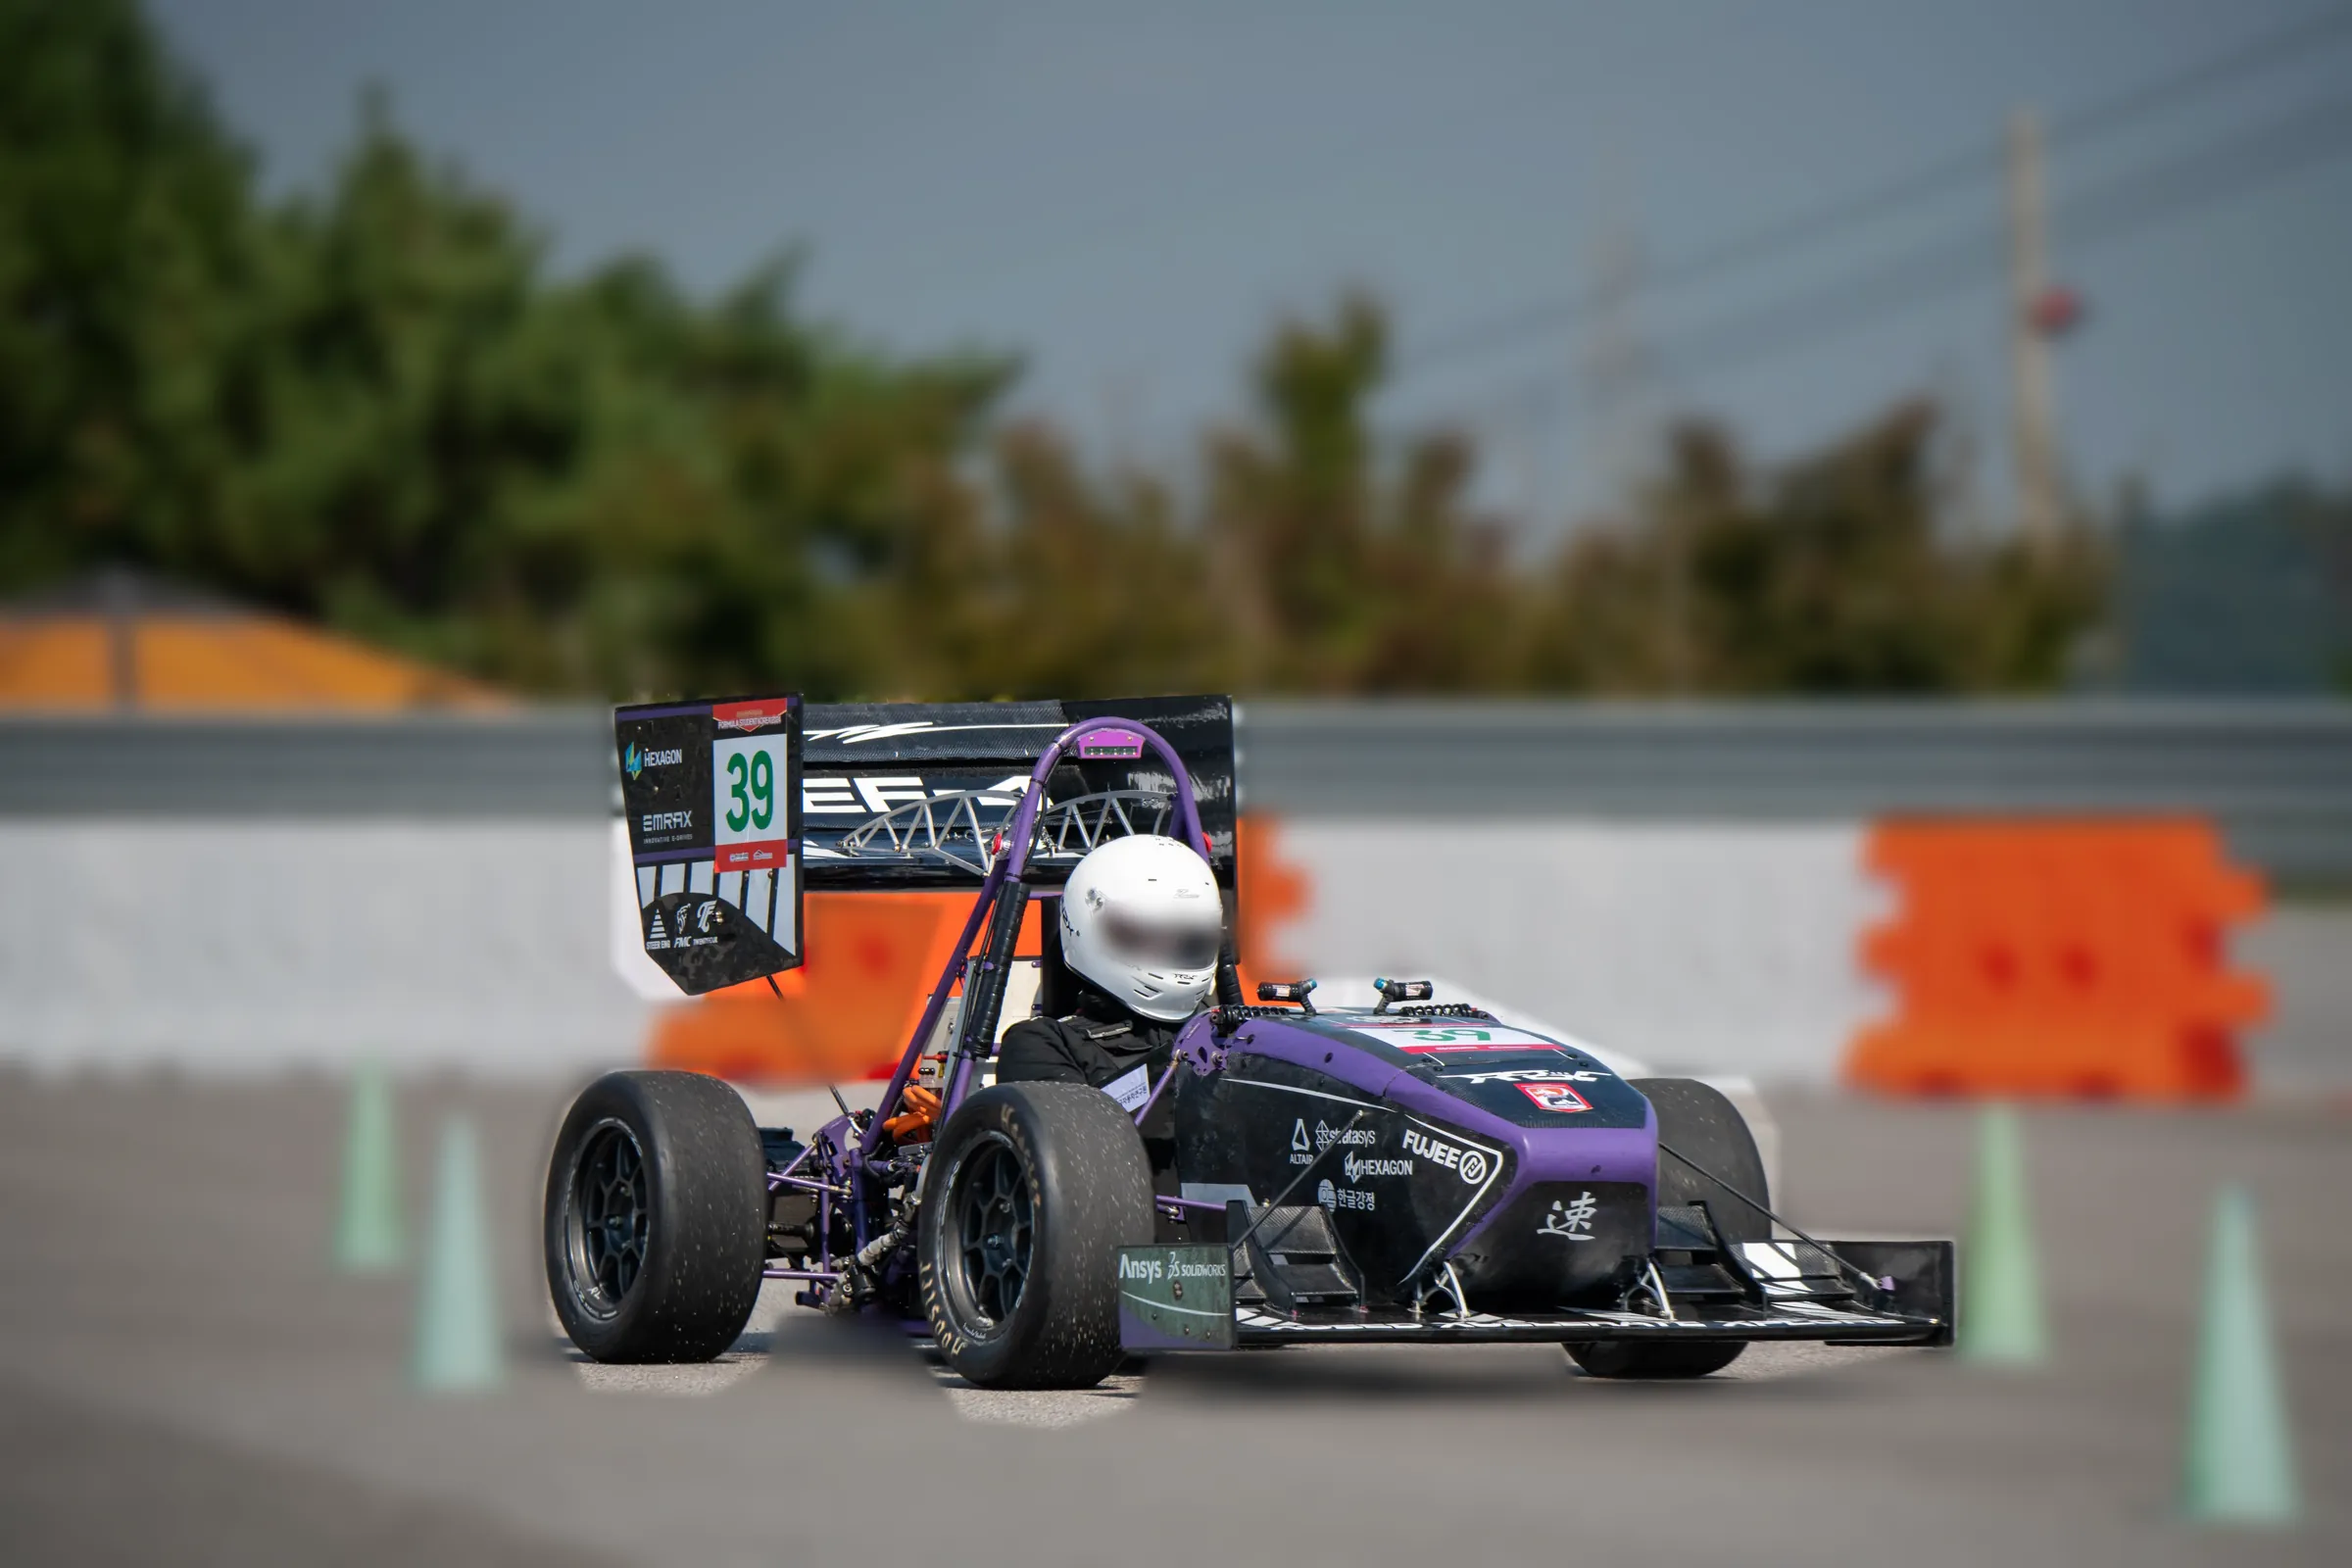
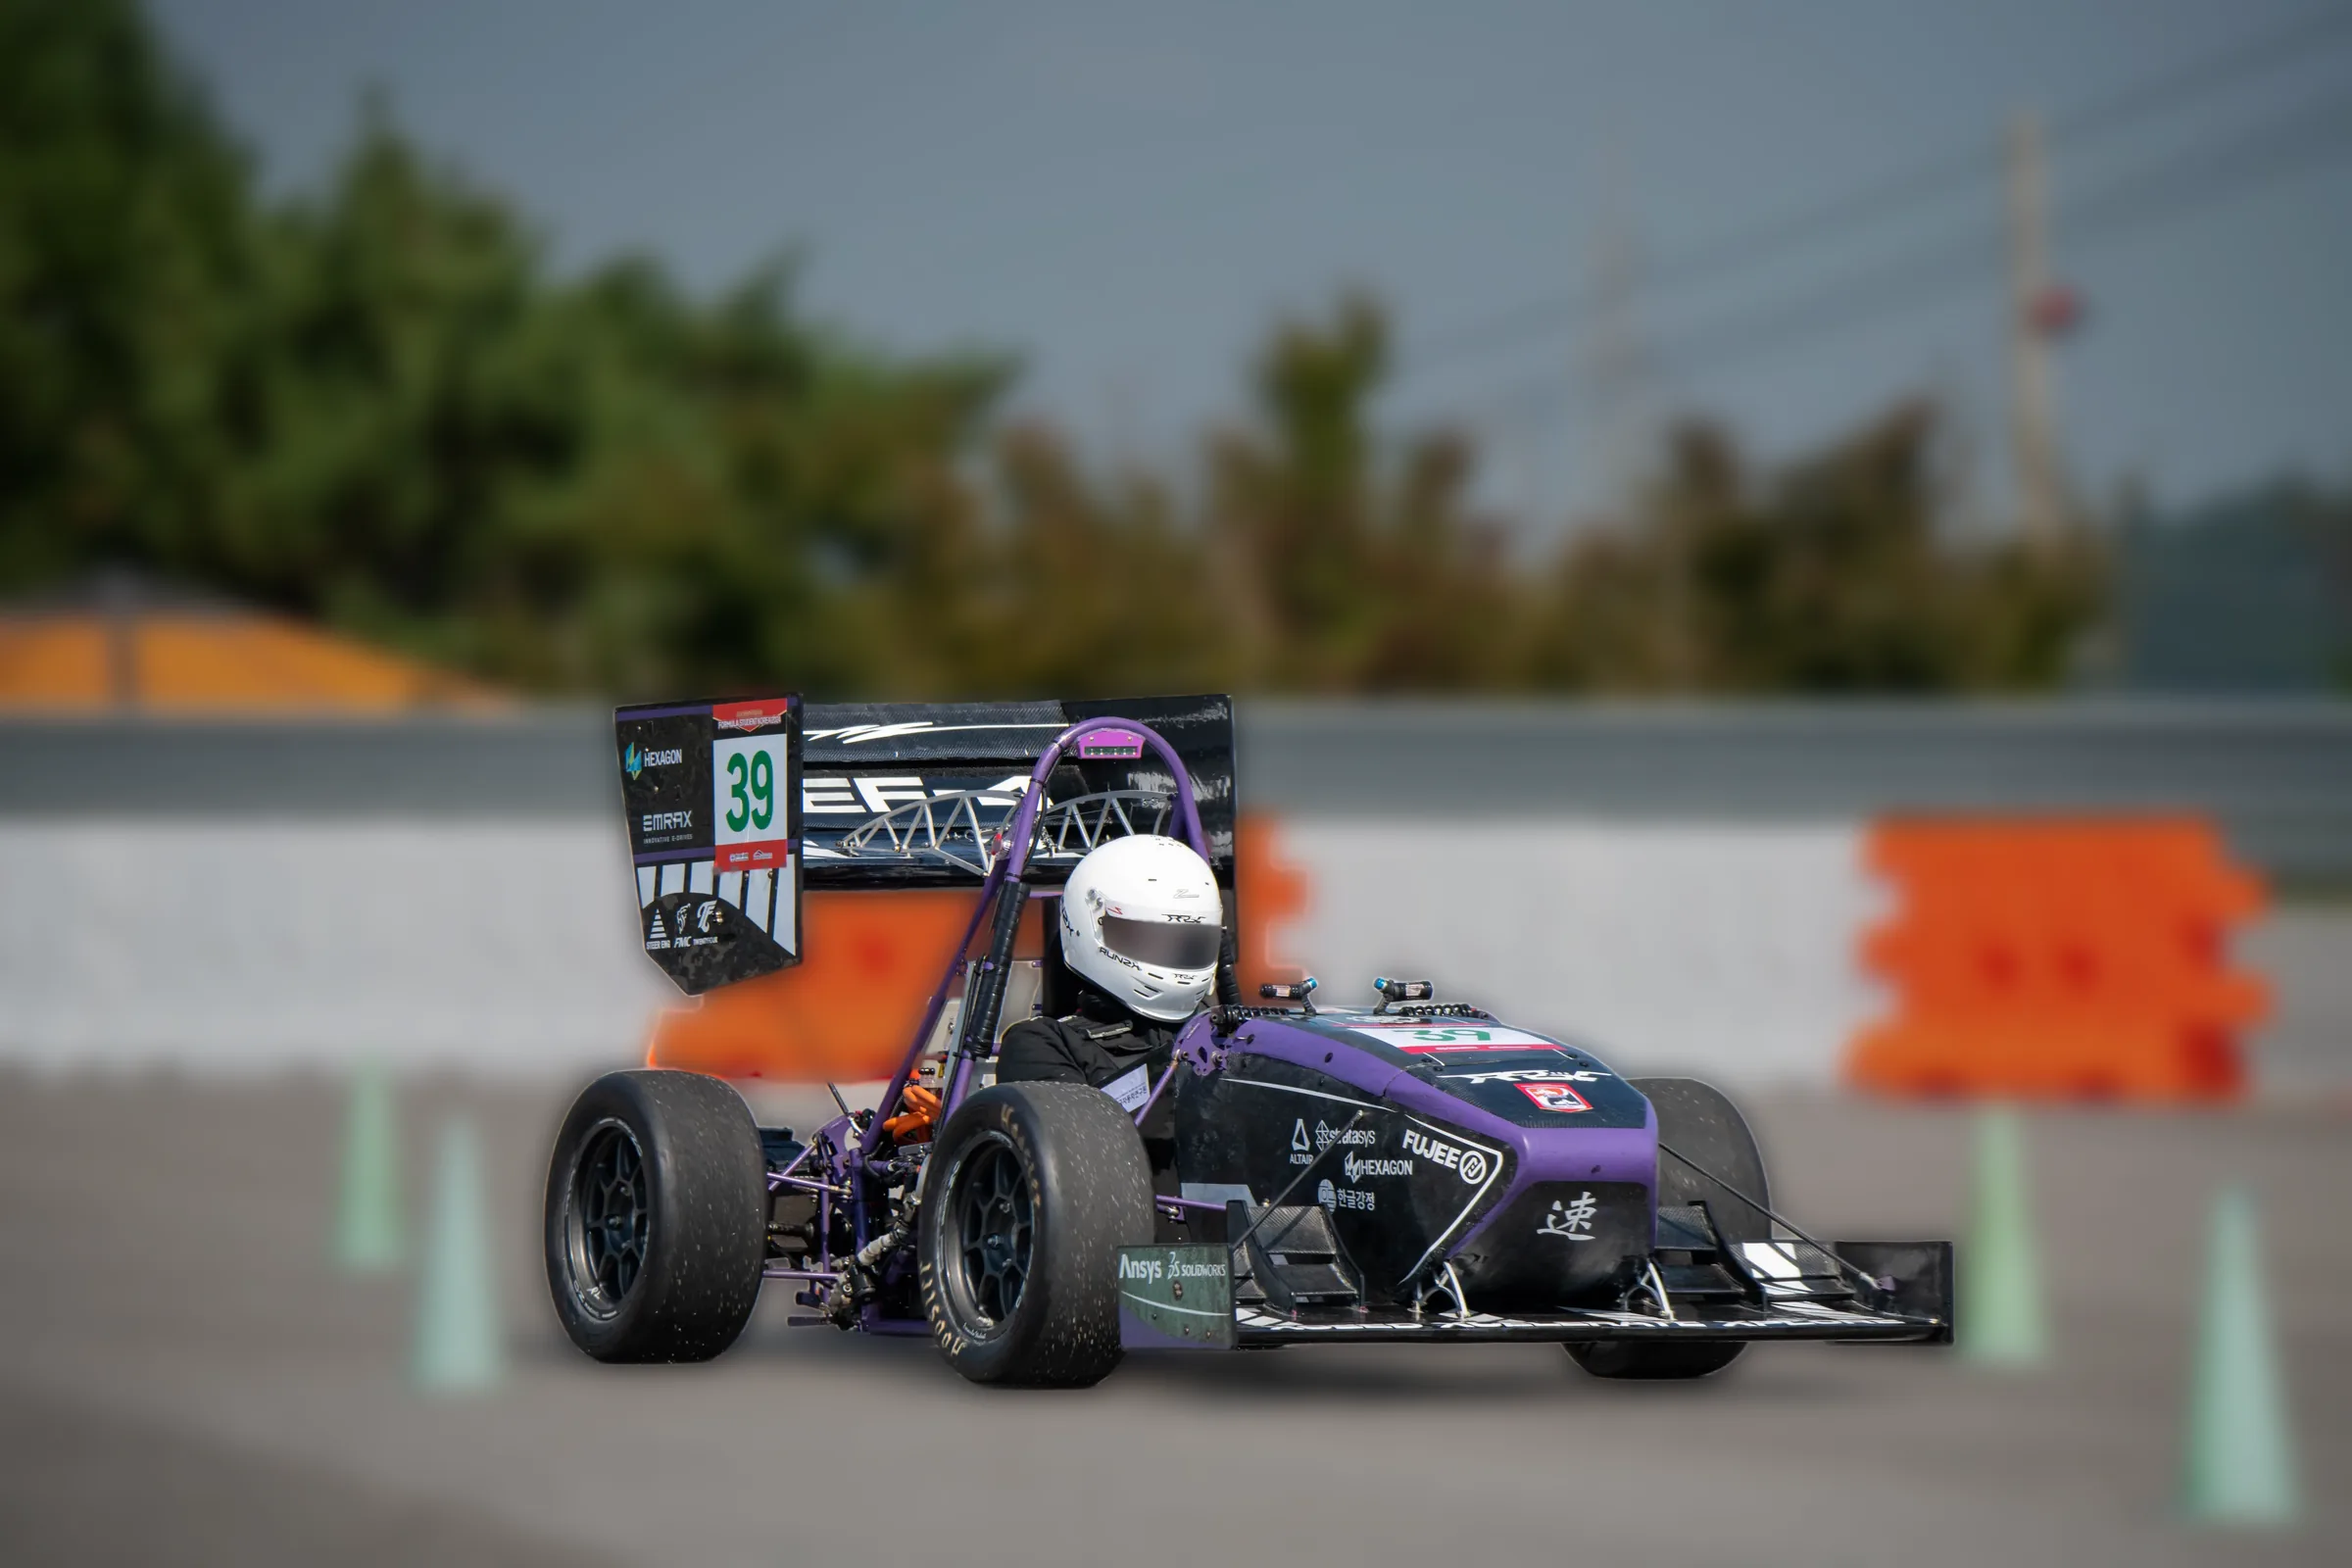
히어로 차 누끼를 배경 제거 모델(rembg isnet)로 다시 따고 바이저를 모양대로 흐림

diff --git a/index.html b/index.html
@@ -8,8 +8,8 @@
 <link rel="icon" type="image/png" href="img/favicon.png">
 <link rel="preconnect" href="https://fonts.googleapis.com">
 <link rel="stylesheet" href="https://fonts.googleapis.com/css2?family=Barlow+Condensed:wght@500;600;700&family=Unbounded:wght@700;800&family=IBM+Plex+Mono:wght@400;500&family=IBM+Plex+Sans+KR:wght@400;500;600;700&display=swap">
-<link rel="stylesheet" href="css/base.css?v=202611220237">
-<link rel="stylesheet" href="css/style.css?v=202611220237">
+<link rel="stylesheet" href="css/base.css?v=202611220246">
+<link rel="stylesheet" href="css/style.css?v=202611220246">
 </head>
 <body>
 <a class="skip" href="#main">본문으로 건너뛰기</a>
@@ -92,67 +92,67 @@
 </main>
 <div id="verline"><span class="vl-main"><span class="vl-copy">© 2026 <b>Run2X 19 한지윤</b></span><span class="vl-sep">·</span><span class="vl-by">Designed &amp; built by <b>한지윤</b></span><span class="vl-sep">·</span><a class="vl-lic" href="https://creativecommons.org/licenses/by-nc/4.0/deed.ko" target="_blank" rel="noopener">CC BY-NC 4.0</a></span><span class="vl-sub">최종 갱신 2026-11-21 · <span class="vl-ver">v<b>2.2.0</b></span></span><span class="vl-links"><button type="button" class="authbtn vl-share">링크 복사</button><button type="button" class="authbtn info-open">사이트 정보</button></span><span class="envnote2">PC 크롬 브라우저 전용입니다(화면 너비 1440 px 이상, 권장 1920×1080). 휴대폰에서는 안내 화면만 보입니다.</span></div>
 
-<script src="js/core/boot.js?v=202611220237"></script>
-<script src="js/core/mathjax-config.js?v=202611220237"></script>
-<script defer onerror="window.__mjFailed=1" src="vendor/mathjax/tex-svg-full.js?v=202611220237"></script>
-<script src="js/config.js?v=202611220237"></script>
-<script src="js/store/backend.js?v=202611220237"></script>
-<script src="js/store/dash-keys.js?v=202611220237"></script>
-<script src="js/core/helpers.js?v=202611220237"></script>
-<script src="js/figures/svg-figures.js?v=202611220237"></script>
-<script src="js/figures/dash-figs.js?v=202611220237"></script>
-<script src="js/figures/fig-anim.js?v=202611220237"></script>
-<script src="js/figures/view3d.js?v=202611220237"></script>
-<script src="js/figures/kp3d.js?v=202611220237"></script>
-<script src="js/figures/comp-figs.js?v=202611220237"></script>
-<script src="js/data/cards.js?v=202611220237"></script>
-<script src="js/data/items.js?v=202611220237"></script>
-<script src="js/data/background.js?v=202611220237"></script>
-<script src="js/data/components.js?v=202611220237"></script>
-<script src="js/data/f1tech.js?v=202611220237"></script>
-<script src="js/data/refs.js?v=202611220237"></script>
-<script src="js/app/render.js?v=202611220237"></script>
-<script src="js/data/act.js?v=202611220237"></script>
-<script src="js/app/step-html.js?v=202611220237"></script>
-<script src="js/data/parts.js?v=202611220237"></script>
-<script src="js/app/views.js?v=202611220237"></script>
-<script src="js/figures/modes-anim.js?v=202611220237"></script>
-<script src="js/app/status-shared.js?v=202611220237"></script>
-<script src="js/app/tabs-nav.js?v=202611220237"></script>
-<script src="js/app/learn.js?v=202611220237"></script>
-<script src="js/app/ui-extra.js?v=202611220237"></script>
-<script src="js/app/admin.js?v=202611220237"></script>
-<script src="js/app/graph-extra.js?v=202611220237"></script>
-<script src="js/app/qa-links.js?v=202611220237"></script>
-<script src="js/app/season.js?v=202611220237"></script>
-<script src="js/app/draft.js?v=202611220237"></script>
-<script src="js/app/conn-lock.js?v=202611220237"></script>
-<script src="js/app/team.js?v=202611220237"></script>
-<script src="js/app/info.js?v=202611220237"></script>
-<script src="js/app/clnotice.js?v=202611220237"></script>
-<script src="js/app/start.js?v=202611220237"></script>
-<script src="js/app/tools-tab.js?v=202611220237"></script>
-<script src="js/app/workbench.js?v=202611220237"></script>
-<script src="js/data/fsk2026-course.js?v=202611220237"></script>
-<script src="js/data/emrax228.js?v=202611220237"></script>
-<script src="js/app/tool1-mass.js?v=202611220237"></script>
-<script src="js/app/tool2-lap.js?v=202611220237"></script>
-<script src="js/app/toolG-goal.js?v=202611220237"></script>
-<script src="js/app/tool4-bat.js?v=202611220237"></script>
-<script src="js/app/tool9-cool.js?v=202611220237"></script>
-<script src="js/app/toolT-tire.js?v=202611220237"></script>
-<script src="js/app/tool5-geo.js?v=202611220237"></script>
-<script src="js/app/tool6-steer.js?v=202611220237"></script>
-<script src="js/app/tool7-spring.js?v=202611220237"></script>
-<script src="js/app/tool3-brake.js?v=202611220237"></script>
-<script src="js/app/tool8-load.js?v=202611220237"></script>
-<script src="js/app/car-shape.js?v=202611220237"></script>
-<script src="js/app/teamtab.js?v=202611220237"></script>
-<script src="js/app/records.js?v=202611220237"></script>
-<script src="js/app/layout.js?v=202611220237"></script>
-<script src="js/app/tour.js?v=202611220237"></script>
-<script src="js/app/item-page.js?v=202611220237"></script>
-<script src="js/app/init.js?v=202611220237"></script>
-<script src="js/app/nav2.js?v=202611220237"></script>
+<script src="js/core/boot.js?v=202611220246"></script>
+<script src="js/core/mathjax-config.js?v=202611220246"></script>
+<script defer onerror="window.__mjFailed=1" src="vendor/mathjax/tex-svg-full.js?v=202611220246"></script>
+<script src="js/config.js?v=202611220246"></script>
+<script src="js/store/backend.js?v=202611220246"></script>
+<script src="js/store/dash-keys.js?v=202611220246"></script>
+<script src="js/core/helpers.js?v=202611220246"></script>
+<script src="js/figures/svg-figures.js?v=202611220246"></script>
+<script src="js/figures/dash-figs.js?v=202611220246"></script>
+<script src="js/figures/fig-anim.js?v=202611220246"></script>
+<script src="js/figures/view3d.js?v=202611220246"></script>
+<script src="js/figures/kp3d.js?v=202611220246"></script>
+<script src="js/figures/comp-figs.js?v=202611220246"></script>
+<script src="js/data/cards.js?v=202611220246"></script>
+<script src="js/data/items.js?v=202611220246"></script>
+<script src="js/data/background.js?v=202611220246"></script>
+<script src="js/data/components.js?v=202611220246"></script>
+<script src="js/data/f1tech.js?v=202611220246"></script>
+<script src="js/data/refs.js?v=202611220246"></script>
+<script src="js/app/render.js?v=202611220246"></script>
+<script src="js/data/act.js?v=202611220246"></script>
+<script src="js/app/step-html.js?v=202611220246"></script>
+<script src="js/data/parts.js?v=202611220246"></script>
+<script src="js/app/views.js?v=202611220246"></script>
+<script src="js/figures/modes-anim.js?v=202611220246"></script>
+<script src="js/app/status-shared.js?v=202611220246"></script>
+<script src="js/app/tabs-nav.js?v=202611220246"></script>
+<script src="js/app/learn.js?v=202611220246"></script>
+<script src="js/app/ui-extra.js?v=202611220246"></script>
+<script src="js/app/admin.js?v=202611220246"></script>
+<script src="js/app/graph-extra.js?v=202611220246"></script>
+<script src="js/app/qa-links.js?v=202611220246"></script>
+<script src="js/app/season.js?v=202611220246"></script>
+<script src="js/app/draft.js?v=202611220246"></script>
+<script src="js/app/conn-lock.js?v=202611220246"></script>
+<script src="js/app/team.js?v=202611220246"></script>
+<script src="js/app/info.js?v=202611220246"></script>
+<script src="js/app/clnotice.js?v=202611220246"></script>
+<script src="js/app/start.js?v=202611220246"></script>
+<script src="js/app/tools-tab.js?v=202611220246"></script>
+<script src="js/app/workbench.js?v=202611220246"></script>
+<script src="js/data/fsk2026-course.js?v=202611220246"></script>
+<script src="js/data/emrax228.js?v=202611220246"></script>
+<script src="js/app/tool1-mass.js?v=202611220246"></script>
+<script src="js/app/tool2-lap.js?v=202611220246"></script>
+<script src="js/app/toolG-goal.js?v=202611220246"></script>
+<script src="js/app/tool4-bat.js?v=202611220246"></script>
+<script src="js/app/tool9-cool.js?v=202611220246"></script>
+<script src="js/app/toolT-tire.js?v=202611220246"></script>
+<script src="js/app/tool5-geo.js?v=202611220246"></script>
+<script src="js/app/tool6-steer.js?v=202611220246"></script>
+<script src="js/app/tool7-spring.js?v=202611220246"></script>
+<script src="js/app/tool3-brake.js?v=202611220246"></script>
+<script src="js/app/tool8-load.js?v=202611220246"></script>
+<script src="js/app/car-shape.js?v=202611220246"></script>
+<script src="js/app/teamtab.js?v=202611220246"></script>
+<script src="js/app/records.js?v=202611220246"></script>
+<script src="js/app/layout.js?v=202611220246"></script>
+<script src="js/app/tour.js?v=202611220246"></script>
+<script src="js/app/item-page.js?v=202611220246"></script>
+<script src="js/app/init.js?v=202611220246"></script>
+<script src="js/app/nav2.js?v=202611220246"></script>
 </body>
 </html>
